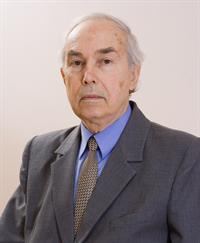
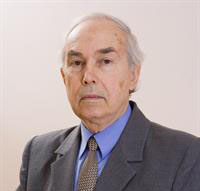
refactor

diff --git a/css/style.css b/css/style.css
@@ -681,7 +681,7 @@ footer {
 /*------------------------------*/
 .foto {
     width: 200px;
-    height: 243px;
+    height: 191px;
     background: #fff;
     background: url(../i/podymov.jpg);
     border-radius: 2%;

diff --git a/protected/views/site/index.php b/protected/views/site/index.php
@@ -65,43 +65,30 @@
             <div class="centrator">
                 <?php if (!empty($posts)): ?>
                     <?php foreach ($posts as $post): ?>
-                        <div class="publikation">
-                            <div class="publikation_content">
-                                <a class="title_link"
-                                   href="/site/postview/<?php echo $post->id ?>"><?php echo $post->title; ?></a>
+                        <?php if (!empty($post->pdf_file)): ?>
+                            <div class="publikation">
+                                <div class="publikation_content">
+                                    <a class="title_link"
+                                       href="/uploads/<?php echo $post->uploded_pdf->name ?>"><?php echo $post->title; ?></a>
 
-                                <div class='text_classic'>
-                                    <?php echo $post->content; ?>
-                                </div>
-                            </div>
-                            <div class="publikation_panel">
-                                <?php if (!empty($post->pdf_file)): ?>
-                                    <a class="panel_icon pdf_icon" href="/site/file/<?php echo $post->pdf_file; ?>"
-                                       title="Скачать в .pdf"></a>
-                                <?php endif; ?>
-                                <?php if (!empty($post->doc_file)): ?>
-                                    <a class="panel_icon doc_icon" href="/site/file/<?php echo $post->doc_file; ?>"
-                                       title="Скачать в .doc"></a>
-                                <?php endif; ?>
-
-                                <div class="span3">
-                                    <a class="btn btn-large btn-block btn-info button_see"
-                                       href="/site/postview/<?php echo $post->id ?>" title="<?php $post->title ?>">Читать
-                                        далее...</a>
-                                </div>
-                                <?php if (!empty($post->pdf_file)): ?>
-                                    <div class="span3 otstup">
-                                        <a class="btn btn-large btn-block btn-success button_see"
-                                           title="<?php echo $post->uploded_pdf->orig_name ?>"
-                                           href="/uploads/<?php echo $post->uploded_pdf->name ?>">Просмотреть
-                                            в
-                                            .pdf</a>
+                                    <div class='text_classic'>
+                                        <?php echo $post->content; ?>
                                     </div>
-                                <?php endif; ?>
+                                </div>
+                                <div class="publikation_panel">
+                                    <?php if (!empty($post->pdf_file)): ?>
+                                        <a class="panel_icon pdf_icon" href="/site/file/<?php echo $post->pdf_file; ?>"
+                                           title="Скачать в .pdf"></a>
+                                    <?php endif; ?>
+                                    <?php if (!empty($post->doc_file)): ?>
+                                        <a class="panel_icon doc_icon" href="/site/file/<?php echo $post->doc_file; ?>"
+                                           title="Скачать в .doc"></a>
+                                    <?php endif; ?>
 
-                                <div class="anchor"></div>
+                                    <div class="anchor"></div>
+                                </div>
                             </div>
-                        </div>
+                        <?php endif; ?>
                     <?php endforeach; ?>
                 <?php else: ?>
                     <p>Здесь пока ничего нет</p>

diff --git a/protected/config/exemple.db.php b/protected/config/exemple.db.php
@@ -1,15 +1,12 @@
 <?php
 
-// this contains the application parameters that can be maintained via GUI
 return array(
-      'db' => array(
-            'connectionString' => 'mysql:host=localhost;dbname=podymov',
-            'emulatePrepare' => true,
-            'username' => 'root',
-            'password' => '',
-            'charset' => 'utf8',
-            'tablePrefix' => 'tbl_',
-            'enableProfiling' => false,
-            'enableParamLogging' => false,
-        ),
+    'connectionString' => 'mysql:host=localhost;dbname=podymov',
+    'username' => 'root',
+    'password' => '',
+    'charset' => 'utf8',
+    'tablePrefix' => 'tbl_',
+    'emulatePrepare' => true,
+    'enableProfiling' => false,
+    'enableParamLogging' => false,
 );

diff --git a/index.php b/index.php
@@ -1,9 +1,9 @@
 <?php
 ini_set('date.timezone', 'Europe/Moscow');
-$yii = dirname(__FILE__) .'../../yii/framework/yii.php';
+$yii = dirname(__FILE__) . '../../yii/framework/yii.php';
 $config = dirname(__FILE__) . '/protected/config/main.php';
 // remove the following line when in production mode
-defined('YII_DEBUG') or define('YII_DEBUG', false);
+defined('YII_DEBUG') or define('YII_DEBUG', true);
 ini_set('display_errors', 'on');
 ini_set('error_reporting', 'E_ALL');
 ini_set('date.timezone', 'Europe/Moscow');
